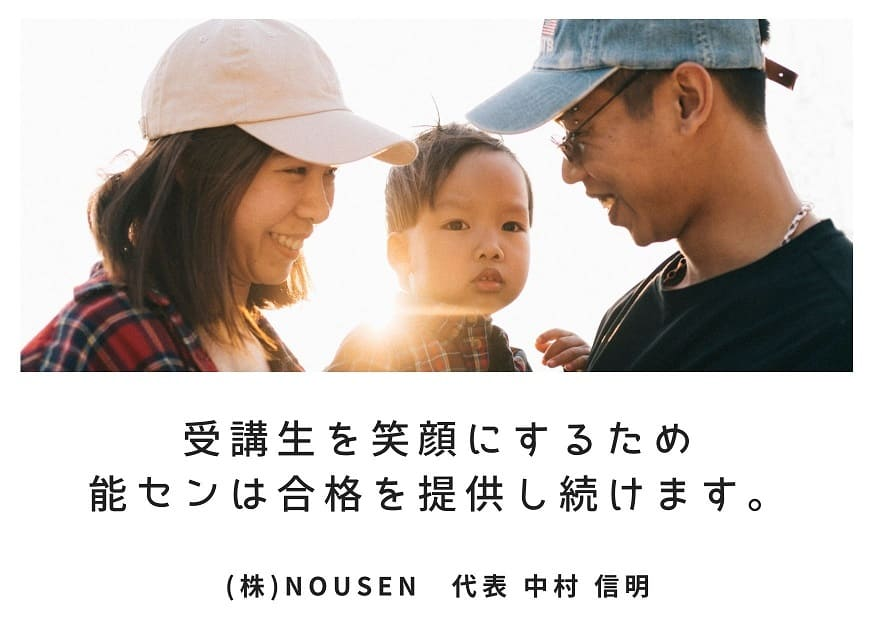
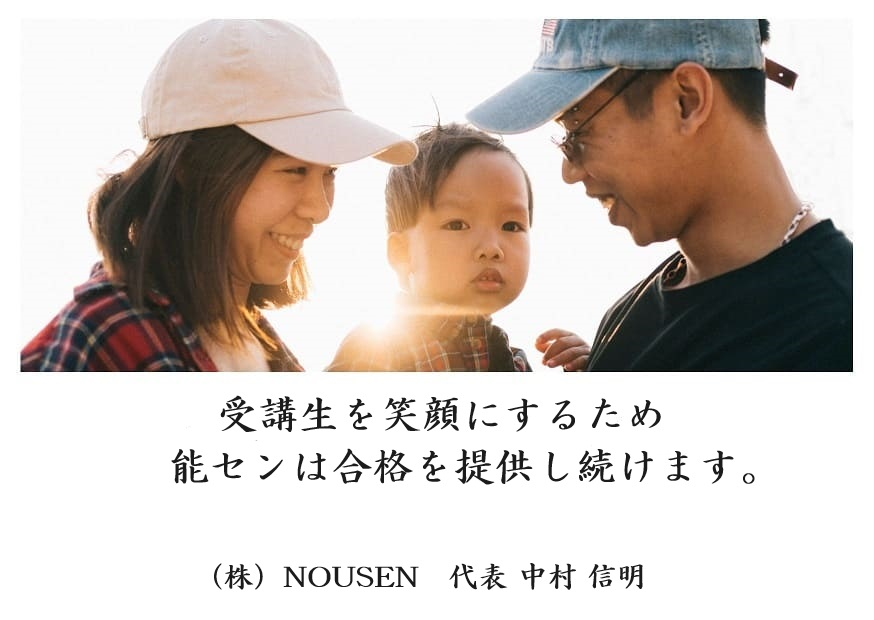
1204修正

Changed region(s): [[0.0927, 0.6435, 0.865, 0.8274], [0.2471, 0.8887, 0.7414, 0.9806]]

diff --git a/src/pages/Index.vue b/src/pages/Index.vue
@@ -1028,7 +1028,7 @@ export default {
 }
 .section03 {
   position: relative;
-  margin-top: -237px;
+  margin-top: -242px;
   z-index: -1;
   @media print, screen and (max-width: 1000px) {
     margin-top: 0;
